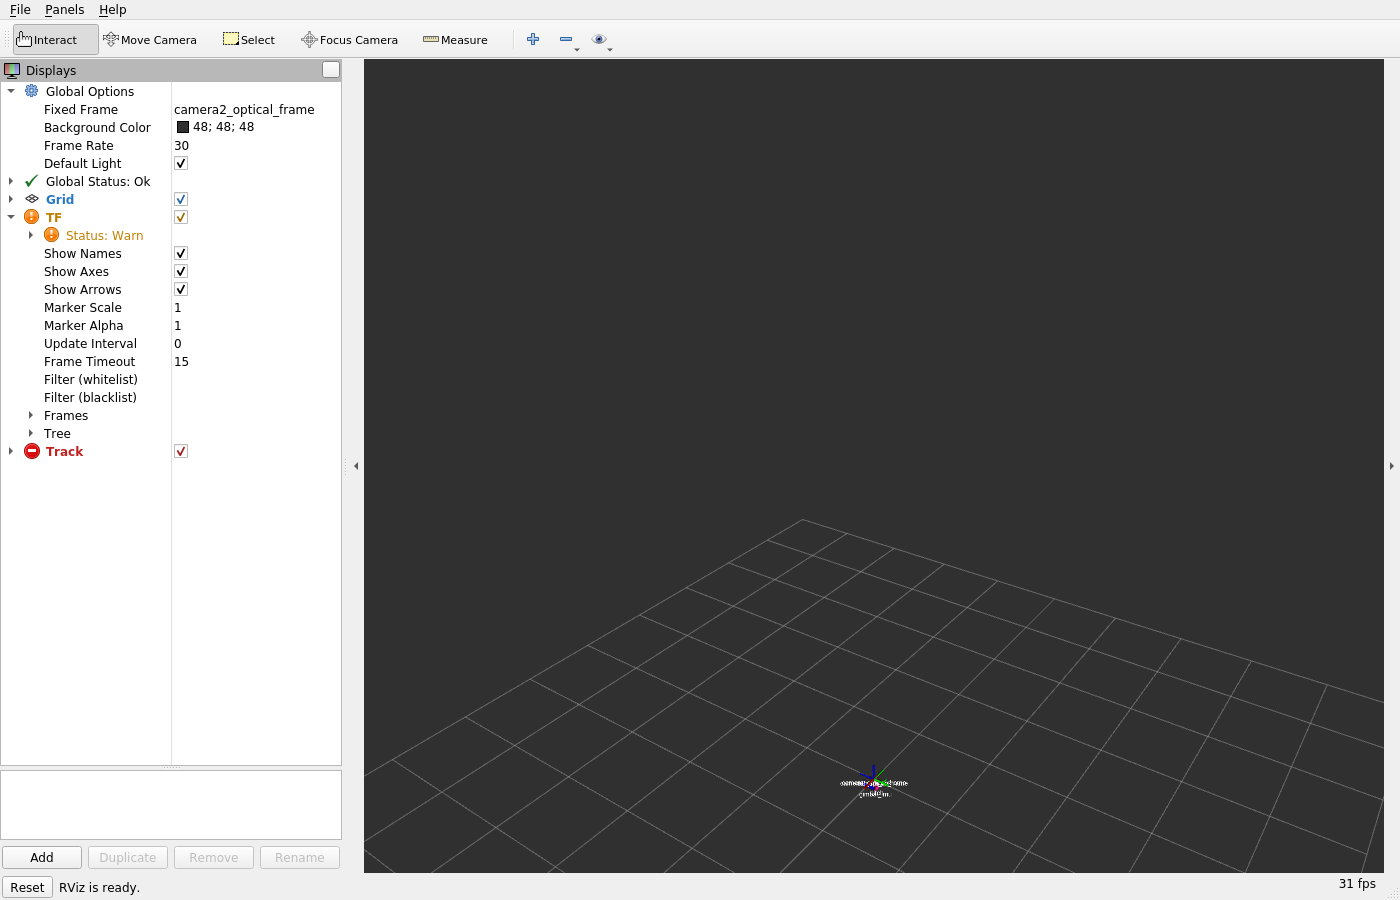
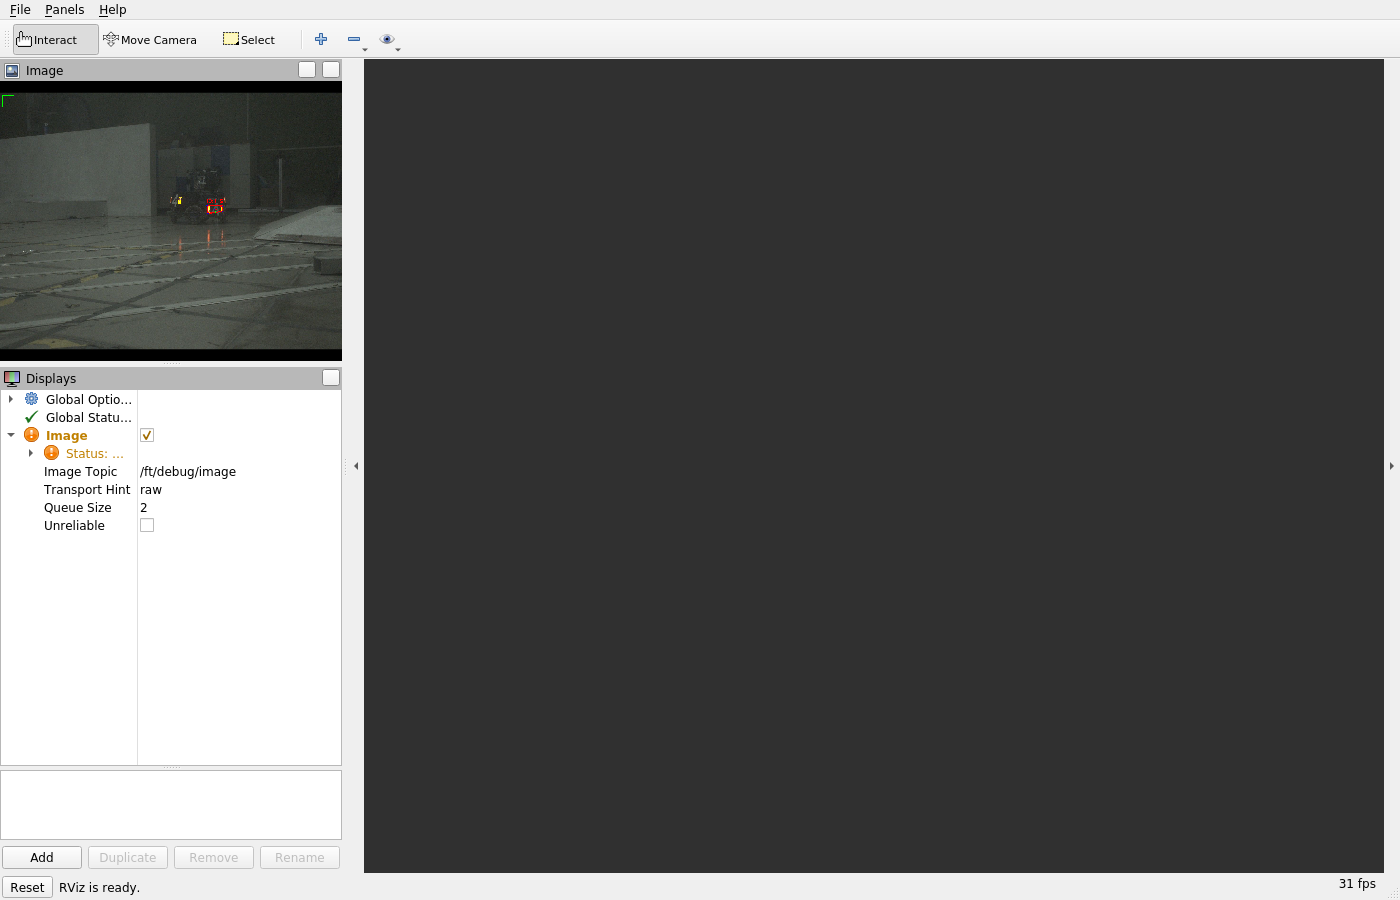
feat: RViz image_demo配置；修正RViz截图证据

diff --git a/docs/TESTING.md b/docs/TESTING.md
@@ -156,3 +156,22 @@ import -window 0xc0000c /tmp/rviz_pose.png
 
 > 注：`blue_guard.bag` 平均亮度约 1.69/255，几乎全黑；检测仍能出框，
 > 作为“极限低照度”单独测试，不放入演示视频。
+
+
+## 12. RViz 截图（正确做法）
+
+`armor_v3.rviz` 只有 TF/Marker，3D 场景容易是空的；用 image_demo：
+
+```bash
+rviz -d $(rospack find final_text)/rviz/image_demo.rviz
+# 找到这个 rviz 的 PID
+PID=$(pgrep -n rviz)
+ID=$(xdotool search --pid $PID | head -1)
+xdotool windowsize $ID 1400 900
+import -window $ID /tmp/rviz.png
+```
+
+注意：
+- 不要截 `root`；
+- 不要选 "ROS 1 End-of-Life" 弹窗；
+- 旧 RViz 窗口会干扰，先关掉旧的。
